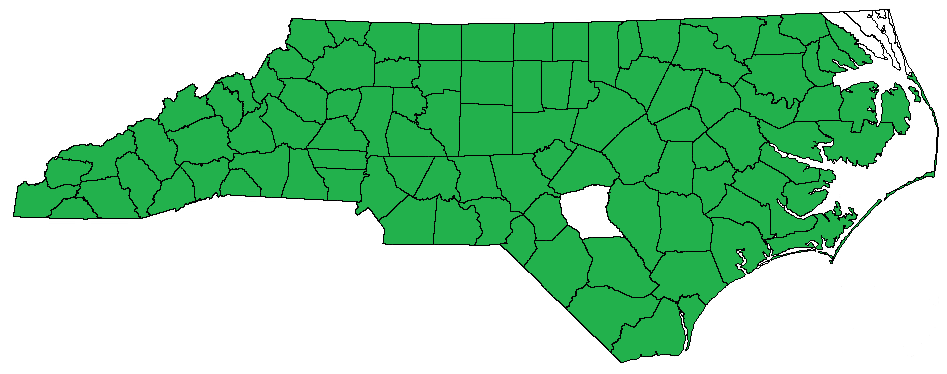
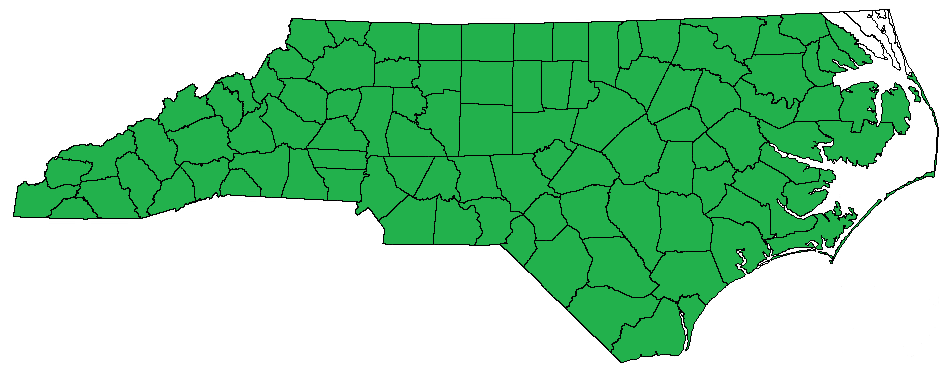
hiking and bbq update 7/12/2026

Changed region(s): [[0.5818, 0.5, 0.6737, 0.6471]]

diff --git a/hiking/carvers-creek/longleaf-pine/longleaf-pine.html b/hiking/carvers-creek/longleaf-pine/longleaf-pine.html
@@ -1,0 +1,51 @@
+<!DOCTYPE html>
+<html>
+
+
+<head>
+	<link href="../../style.css" rel="stylesheet" type="text/css" />
+	<link rel="icon" type="image/png" href="../../icon.png">
+	<title>Longleaf Pine Trail - Carvers Creek State Park</title>
+</head>
+
+<center>
+	<h2>Longleaf Pine Trail - Carvers Creek State Park</h2>
+</center>
+
+<p>I did this trail on July 11th, 2026 by myself.</p>
+
+<p>Aiming to complete my <a href="../../../bbq/index.html">barbecue quest</a>, I made a day-trip to the Fayetteville area with the goal of some 'cue and some brews, with some views to divide the two.  Towards that end, I picked Carvers Creek State Park, which is divided into two sections: the Sandhills Access -- the park's main trail system -- and the Long Valley Farm portion -- which contains the historic Rockefeller House.  Since it had been some time since I'd hiked, I opted for the former despite the day's balmy temperatures.</p>
+
+<center><image src="https://drive.google.com/thumbnail?id=13yxg_xmXZJl9qdRB5fFQdPOxfYJz6FVz&sz=s4000" width="800"></img></center><br>
+<!-- 20260711_125008 -->
+<center><image src="https://drive.google.com/thumbnail?id=1UbDhSHQ3bVPQsfugJS8EZJioTb6vVfbt&sz=s4000" width="800"></img></center><br>
+<!-- 20260711_125152 -->
+<center><image src="https://drive.google.com/thumbnail?id=17rC-Bc9ht8Ndk9T8DXsjhVQaSCgGCoyz&sz=s4000" width="800"></img></center>
+<!-- 20260711_130636 -->
+
+<p>The hike itself is a fairly flat walk through a sandy pine forest, and starts right at the main parking lot.  The Longleaf Pine Trail is the area's longest trail -- 4 miles one way -- and is the only way to reach several of the park's other trails, including the Little Pond Spur Trail (below) and various extending alternates which I opted to forgo this time, including Turkey Oak Loop Trail, RCW Trail, Dead End Spur Trail, and Fox Squirrel Loop Trail.  Much of the first mile is just beside the road in open sun.</p>
+
+<center><image src="https://drive.google.com/thumbnail?id=1wma9e4OVQnY_6fq5WVRHYHM6nu33SAyG&sz=s4000" width="800"></img></center><br>
+<!-- 20260711_131132 -->
+<center><image src="https://drive.google.com/thumbnail?id=1s-8V-W0s7tqXYLNYNSrBZupRQxH_k-gY&sz=s4000" width="800"></img></center>
+<!-- 20260711_131307 -->
+
+<p>After two miles, you'll reach the aforementioned split with Fox Squirrel Spur Trail, which afforded a nice opportunity for a shaded rest on a bench.  Continuing along the main trail, I encountered a friendly little Eastern Box Turtle.  After meeting back up with the Fox Squirrel Loop Spur, you'll cross the park's titular stream (about 2-3/4 miles in); after that, the forest opens up somewhat.</p>
+
+<center><image src="https://drive.google.com/thumbnail?id=1Np9cXhmO04RzsNTrMPqz1Ad1NWctbRDv&sz=s4000" width="800"></img></center><br>
+<!-- 20260711_133659 -->
+<center><image src="https://drive.google.com/thumbnail?id=1emvHTukkR-63Iz8vV3Mw6GOv6gZZvpB2&sz=s4000" width="800"></img></center><br>
+<!-- 20260711_134412 -->
+<center><image src="https://drive.google.com/thumbnail?id=18fqvryRKmq7-x9eNgnvU3E2MEIqmxefK&sz=s4000" width="800"></img></center><br>
+<!-- 20260711_135202 -->
+<center><image src="https://drive.google.com/thumbnail?id=1Vvsdl3Bdnc789vGI0zkyC8kJCQR_wwKw&sz=s4000" width="800"></img></center>
+<!-- 20260711_140118 -->
+
+<p>The end of the trail is fairly unrewarding, but the hike itself is pretty gratifying for the solitude (I met only 5-6 other hikers throughout the day) and as a respite in nature.
+
+<p>For a map of the trail, click <a href="https://www.ncparks.gov/maps/carvers-creek-state-park-sandhills-access-map/open">here</a>.</p>
+
+
+
+<center><p><i>Last updated: 7/12/2026</i></p></center>
+</html>

diff --git a/bbq/bbq-pics.html b/bbq/bbq-pics.html
@@ -641,6 +641,28 @@
         Show Image
 </button></center>
 
+
+
+<br>
+<p><b>Cumberland County</b></p>
+<p>Noble Meats &amp; Eatery - Sprink Lake</p>
+<p><a id="noblemeats"></p>
+<center><img id="image403" img-src="https://drive.google.com/thumbnail?id=1imd9ecjq1ry6-2NEG61XAnWouHTPzkfJ&sz=s4000" width="800"></img></center>
+<center><button type="button"
+        onclick="show( image403, this )" id="btnID">
+        Show Image
+</button></center>
+<center><img id="image404" img-src="https://drive.google.com/thumbnail?id=1ah2MaEGtSVn8OoP45gjeiLbGSbBAmo3r&sz=s4000" width="800"></img></center>
+<center><button type="button"
+        onclick="show( image404, this )" id="btnID">
+        Show Image
+</button></center>
+<center><img id="image405" img-src="https://drive.google.com/thumbnail?id=1Wsj_rKBsU_bVEn-FsBh4ZbGx7LbP7-ow&sz=s4000" width="800"></img></center>
+<center><button type="button"
+        onclick="show( image405, this )" id="btnID">
+        Show Image
+</button></center>
+
 <br>
 <p><b>Davidson County</b></p>
 <p>Barbecue Center - Lexington</p>
@@ -921,6 +943,16 @@
 <center><img id="image325" img-src="https://drive.google.com/thumbnail?id=1GU0xPN4ZBobNamf9XBWZOW_mOOBgGRbV&sz=s4000" width="800"></img></center>
 <center><button type="button"
         onclick="show( image325, this )" id="btnID">
+        Show Image
+</button></center>
+<center><img id="image401" img-src="https://drive.google.com/thumbnail?id=1bHQzV-fIIz5HEp7CkI9lYJhR34wuwEO5&sz=s4000" width="800"></img></center>
+<center><button type="button"
+        onclick="show( image401, this )" id="btnID">
+        Show Image
+</button></center>
+<center><img id="image402" img-src="https://drive.google.com/thumbnail?id=1F92in5AR16oy9k0CkoHtVfkE5OyRHN91&sz=s4000" width="800"></img></center>
+<center><button type="button"
+        onclick="show( image402, this )" id="btnID">
         Show Image
 </button></center>
 

diff --git a/bbq/index.html b/bbq/index.html
@@ -58,10 +58,10 @@
 <br>
 <center>
 	<h2>Current County Counter</h2>
-	<h3><span style="color:red">97</span> / 100</h3>
-	<h3>132 different in-state BBQ joints</h3>
+	<h3><span style="color:red">98</span> / 100</h3>
+	<h3>133 different in-state BBQ joints</h3>
 	<h3>11 annual BBQ events</h3>
-	<p>(last updated 3/10/2025)</p>
+	<p>(last updated 7/12/2026)</p>
 </center>
 <br>
 
@@ -196,6 +196,11 @@
 	<li>Friday's 1890 Seafood &amp BBQ - New Bern - 3/12/2022 - <a href="bbq-pics.html#Fridays">pictures</a></li>
 </ul>
 <br>
+<p><b>Cumberland County</b></p>
+<ul>
+	<li>Noble Meats &amp; Eatery - Spring Lake - 7/11/2026 - <a href="bbq-pics.html#noblemeats">pictures</a></li>
+</ul>
+<br>
 <p><b>Dare County</b></p>
 <ul>
 	<li>Pigman's BBQ - Nag's Head - 6/19/2021</li>
@@ -243,7 +248,7 @@
 	<li>Hill's BBQ - (<i><span style="color:red">closed January 2020</span></i>) Winston-Salem - 12/14/2019 - <i>former NCBS BBQ Trail stop</i> - <a href="bbq-pics.html#hills">pictures</a></li>
 	<!-- https://journalnow.com/entertainment/dining/hills-lexington-barbecue-has-closed-for-good-after-68-years/article_f385c976-3edf-11ea-8bf6-a3677fb5f261.html -->
 	<li>J. S. Pulliam Barbeque - Winston-Salem - 2/6/2025 - <a href="bbq-pics.html#pulliam">pictures</a></li>
-	<li>Real Q (<i>formerly "Little Richard's</i>) - Winston-Salem - 12/14/2019 - <i><span class="ncbsbbq">NCBS BBQ Trail</span></i>; <i><span class="ncbsbbq">True 'Cue NC</span></i> - <a href="bbq-pics.html#realq">pictures</a></li>
+	<li>Real Q (<i>formerly "Little Richard's</i>) - Winston-Salem - 12/14/2019,  - <i><span class="ncbsbbq">NCBS BBQ Trail</span></i>; <i><span class="ncbsbbq">True 'Cue NC</span></i> - <a href="bbq-pics.html#realq">pictures</a></li>
 </ul>
 <br>
 <p><b>Franklin County</b></p>
@@ -796,6 +801,8 @@
 <p>As has become typical, 2025 has been marked by a number of extended barbecue breaks.  I stopped at the JD's Smokehouse, in Rutherford College on a trip my wife and I took to the Grandfather Mountain area; we stayed at a cute campground with a taproom on the premises, and hiked the <a href="../hiking/blue-ridge-parkway/linn-cove/linn-cove.html">Linn Cove Trail</a> and to the <a href="../hiking/blue-ridge-parkway/little-bald/little-bald.html">Little Bald Overlook</a>; the food was great, but the main thing I remember about the restaurant was the chaos: I still have no idea how the servers figured out where we had sat down after ordering.  A few months later, I stopped at Jonesville's Wood Box BBQ on my way to Merlefest; their meat was tender and delicious, and the pulled pork sandwiches I brought back to my family (who had arrived at the campground the day before) were a hit.  And then, in late September, the wife and I made time for pork once again, stopping at Keaton's Barbecue, right at the northwest corner of Rowan County, en route to Waynesville to celebrate our first anniversary.  Their fried chicken was fantastic, though the spicy selection does not play around with the zing.  Though the restaurant serves pork, it's more of an afterthought: you can only get it in to-go pints or as a sandwich.  We opted to split a pint of 'cue and a chicken quarter, plus some sides.  Though it tasted great, the pork was so heavily sauced it felt more like eating Brunswick stew!</p>
 
 <p>After nearly a year-long hiatus from checking off new counties, I got two in rapid succession in October 2025.  I knocked off Ashe County's Smoky Mountain Barbecue on October 17th, making the detour through West Jefferson while heading to a company retreat in Banner Elk.  The county had long been earmarked for a trip to the "coolest corner of NC" my wife and I had planned, but after repeated delays, I decided I had to check it off while in the neighborhood, even if it made me the last person to show up (and therefore relegating me to the couch).  The ordering process was a bit strange -- you had to order at the drive through, but could still eat inside -- but the food was solid.  The very next weekend, I drove to Helen, Georgia to experience the alpine-themed city's Oktoberfest while celebrating a friend's birthday.  I had originally intended to visit Hayesville's Rib Country location, but after a late start Friday, I pivoted to visit a food truck open on Sundays heading home.  A more Texas-centric joint, brisket is their specialty, though their pulled pork is nothing to sneeze at either.  Not pictured are their three sauce offerings, which include a SC-style mustard-based sauce, and two tomato based sauces, one slightly tangy, and one spicy.</p>
+
+<p>After a very busy first half of 2026, I finally began working towards finally finishing off my mission.  This started with a quick day-trip to the Fayetteville area to hike (Carver Creek State Park's <a href="../hiking/carvers-creek/longleaf-pine/longleaf-pine.html">Longleaf Pine Trail</a>) and Heckler Brewing, as well as, of course, some barbecue: Spring Lake's Noble Meats &amp; Eatery.  I plan to wrap things up in August with a trip to Camden and Currituck Counties.</p>
 
 <center>- - - - - - - - - - -</center>
 

diff --git a/hiking/index.html b/hiking/index.html
@@ -66,6 +66,11 @@
 	<li><a href="caesers-head/caesers-head/caesers-head.html">Caesers Head Overlook</a></li>
 </ul>
 
+<h2>Carvers Creek State Park</h2>
+<ul>
+	<li><a href="carvers-creek/longleaf-pine/longleaf-pine.html">Longleaf Pine Trail</a></li>
+</ul>
+
 <h2>Carvins Cove Natural Reservoir (Virginia)</h2>
 <ul>
 	<li><a href="carvins-cove/tinker-creek/tinker-creek.html">Tinker Creek Trail</a></li>
@@ -319,5 +324,5 @@
 
 
 
-<center><p><i>Last updated: 3/13/2025</i></p></center>
+<center><p><i>Last updated: 7/12/2026</i></p></center>
 </html>